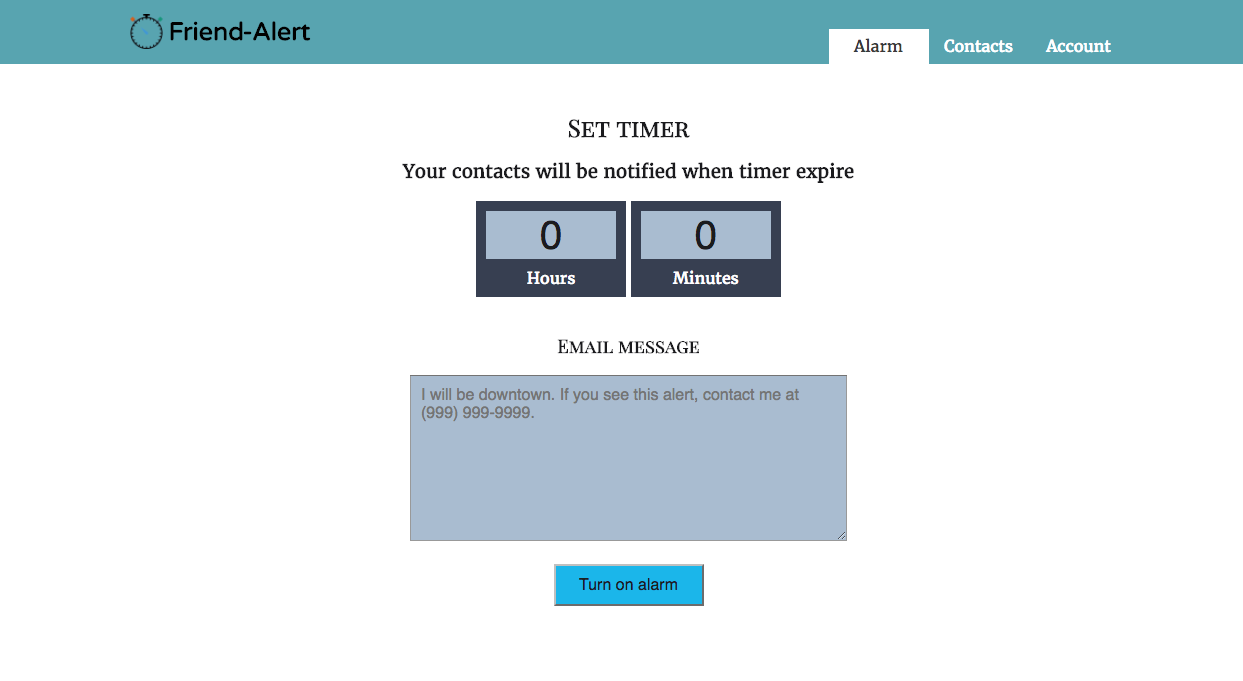
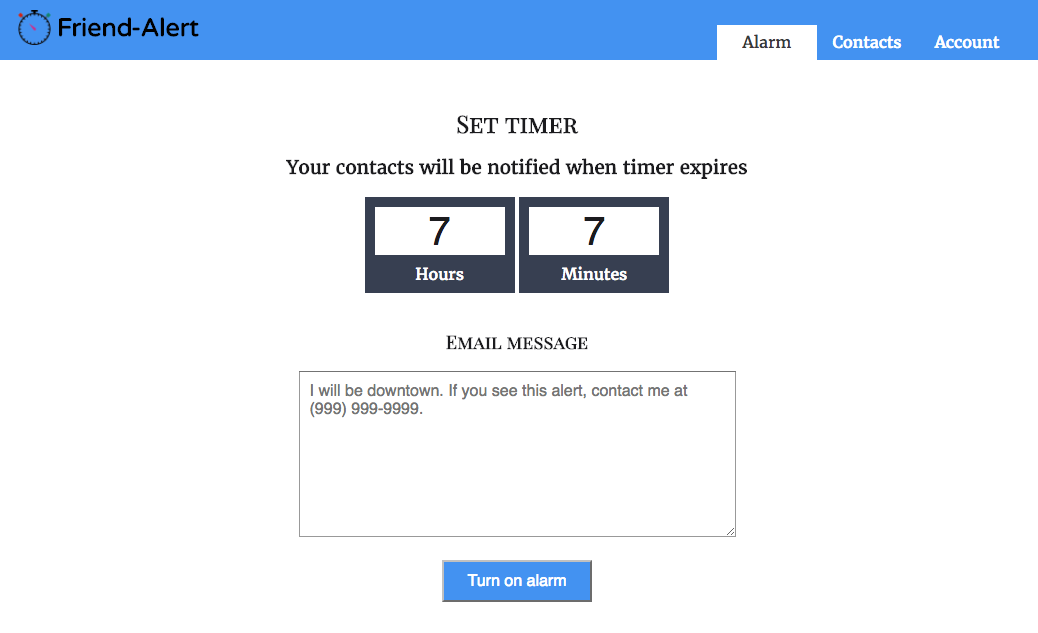
new

Changed region(s): [[0.2775, 0.2401, 0.7091, 0.9605], [0.0, 0.0, 1.0, 0.1201], [0.4316, 0.1801, 0.5549, 0.2101]]

diff --git a/public/styles/index.css b/public/styles/index.css
@@ -8,7 +8,7 @@ html {
 
 body {
     height: 100%;
-    background-color: #58A4B0;
+    background-color: #373F51;
     font-family: 'Merriweather', serif;
     font-weight: bold;
 }
@@ -108,7 +108,7 @@ body {
 }
 
 button {
-    background-color: #2d91ff/*rgb(0, 161, 244)*/;
+    background-color: #4392F1;
     border-radius: 5px;
     border-style: none;
     margin-bottom: 13px;
@@ -117,7 +117,7 @@ button {
 .toggle {
     width: 150px;
     margin: 0 auto 13px;
-    color: #2d91ff/*rgb(0, 161, 244)*/;
+    color: #4392F1;
     cursor: pointer;
 }
 
@@ -143,12 +143,12 @@ button {
     right: 0;
     width: 50%;
     margin-left: 20px;
-    color: #1B1B1E;
+    color: #FFF;
     font-size: 32pt;
 }
 
 .friend2 {
-    color: #A5243D;
+    color: #4392F1;
     font-family:'Varela Round', serif;
 }
 
@@ -160,7 +160,7 @@ button {
 .three {
     height: 430px;
     overflow: hidden;
-    background-color: #FFFFFF;
+    background-color: #FFF;
     clip-path: polygon(100% 100%, 100% 0%, 0% 10%, 0 100%);
 }
 

diff --git a/public/styles/main.css b/public/styles/main.css
@@ -32,7 +32,7 @@ header {
     margin-bottom: 50px;
     display: flex;
     align-items: flex-end;
-    background-color: #58A4B0;
+    background-color: #4392F1;
 }
 
 .navigation-container{
@@ -81,7 +81,7 @@ li:hover:not(.active) {
     font-weight: bold;
     margin-bottom: 20px;
     font-family: 'Varela Round','Playfair Display SC', serif;
-    color: #1B1B1E;
+    color: black;
 }
 
 .logo img {
@@ -122,14 +122,14 @@ input[type='number'] {
     font-size: 30pt;
     border: none;
     text-align: center;
-    background-color: #A9BCD0;
+    background-color: #FFFFFF;
     color: #1B1B1E;
 }
 
 textarea {
     padding: 10px;
     margin-bottom: 20px;
-    background-color: #A9BCD0;
+    background-color: #FFFF;
     color: #1B1B1E;
 }
 
@@ -139,8 +139,8 @@ textarea {
 }
 
 #alarm-on-button {
-    background-color: #1bb6ea;
-    color: #1D201F;
+    background-color: #4392F1;
+    color: #FFF;
     margin-bottom: 15px;
 }
 

diff --git a/public/styles/verified.css b/public/styles/verified.css
@@ -19,7 +19,7 @@ header {
     display: flex;
     width: 100%;
     height: 75px;
-    background-color: #58A4B0;
+    background-color: #4392F1;
 }
 
 /****** logo ********/
